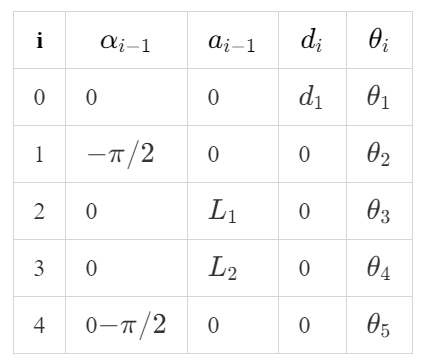
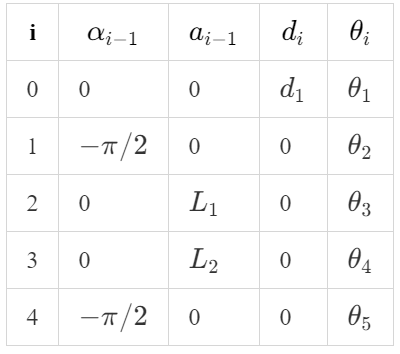
Inverse Kinematics update

diff --git a/TaiDa/week4/pieper_solution.m b/TaiDa/week4/pieper_solution.m
@@ -1,0 +1,41 @@
+% This is the inverse kinematics for the 5-DOF Lynxmotion.
+% It's usinddg Pieper's solution.
+function Thetas = pieper_solution(T)
+
+    mdl_Lynxmotion
+    n = Lynxmotion.n;
+
+    Thetas = zeros(1,n);
+
+    % Main parameters of
+    d1 = 300;
+    l1 = 400;
+    l2 = 500;
+    l3 = 200;
+
+    syms theta1 theta2 theta3 theta4 theta5 
+
+    T01 = FKMatrix(0,0,d1,theta1);
+    T12 = FKMatrix(-pi/2,0,0,theta2);
+    T23 = FKMatrix(0,l1,0,theta3);
+    T34 = FKMatrix(0,l2,0,theta4);
+    T45 = FKMatrix(-pi/2,0,0,theta5);
+
+    P04 = T01*T12*T23*T34(:,4);
+
+    eqn1 = P04(1,1) == 0;
+    eqn2 = P04(2,1) == 0;
+    eqn3 = P04(3,1) == 0;
+    s = solve([eqn1,eqn2,eqn3],[theta1,theta2,theta3]);
+    theta1 = (s.theta1(2,1))
+    theta2 = (s.theta2(2,1))
+    theta3 = (s.theta3(2,1))
+
+end
+
+function T = FK4IK(alpha, a, d, theta)
+    T = [cosd(theta), -sind(theta), 0, a;
+         sind(theta)*cosd(sym(alpha)), cosd(theta)*cosd(sym(alpha)), -sind(sym(alpha)), -sind(sym(alpha))*d;
+         sind(theta)*sind(sym(alpha)), cosd(theta)*sind(sym(alpha)), cosd(sym(alpha)), cosd(sym(alpha))*d;
+         0, 0, 0, 1];
+end

diff --git a/TaiDa/week4/mdl_Lynxmotion.m b/TaiDa/week4/mdl_Lynxmotion.m
@@ -1,0 +1,32 @@
+% This is the model of the 5-DOF robot Lynxmotion
+
+deg = pi/180;
+
+% Main parameters
+d1 = 300;
+l1 = 400;
+l2 = 500;
+l3 = 200;
+
+% Link([theta, d, a alpha])
+L(1) = Revolute('d',d1,'a',0,'alpha',-pi/2,'qlim', [-180 180]*deg);
+
+L(2) = Revolute('d',0,'a',l1,'alpha',0,'qlim', [0 180]*deg);
+
+L(3) = Revolute('d',0,'a',l2,'alpha',0,'qlim', [0 180]*deg);
+
+L(4) = Revolute('d',0,'a',0,'alpha',-pi/2,'qlim', [0 180]*deg);
+
+L(5) = Revolute('d',0,'a',l3,'alpha',0,'qlim', [-180 180]*deg);
+
+%
+% some useful poses
+%
+qz = [0 0 0 0 0 0]; % zero angles, L shaped pose
+qr = [0 pi/2 -pi/2 0 0 0]; % ready pose, arm up
+qs = [0 0 -pi/2 0 0 0];
+qn=[0 pi/4 pi 0 pi/4  0];
+
+Lynxmotion = SerialLink(L, 'name', 'Lynxmotion', ...
+    'configs', {'qz', qz, 'qr', qr, 'qs', qs, 'qn', qn});
+

diff --git a/TaiDa/week4/puma560.m b/TaiDa/week4/puma560.m
@@ -1,4 +1,4 @@
-%MDL_PUMA560 Create model of Puma 560 manipulator
+% MDL_PUMA560 Create model of Puma 560 manipulator
 %
 % MDL_PUMA560 is a script that creates the workspace variable p560 which
 % describes the kinematic and dynamic characteristics of a Unimation Puma

diff --git a/Machine vision/week3/BITWISE.py b/Machine vision/week3/BITWISE.py
@@ -30,3 +30,5 @@ cv.imwrite('Machine vision\week3\pics/bitwise_xor.jpg',bitwise_xor)
 bitwise_not = cv.bitwise_not(rectangle)
 cv.imshow('bitwise_not',bitwise_not)
 cv.imwrite('Machine vision\week3\pics/bitwise_not.jpg',bitwise_not)
+
+cv.waitKey(0)
